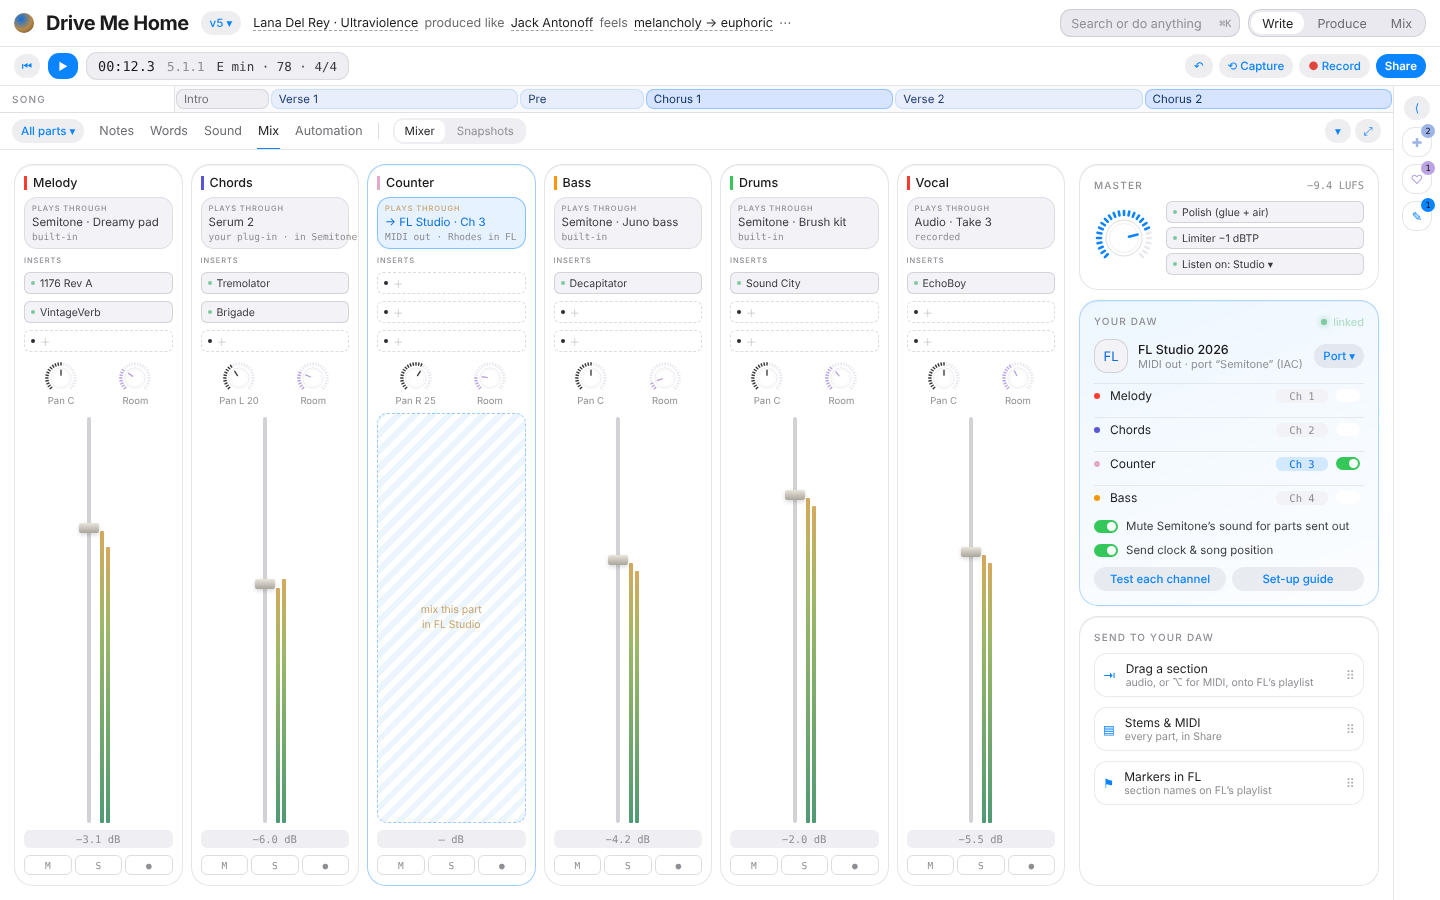
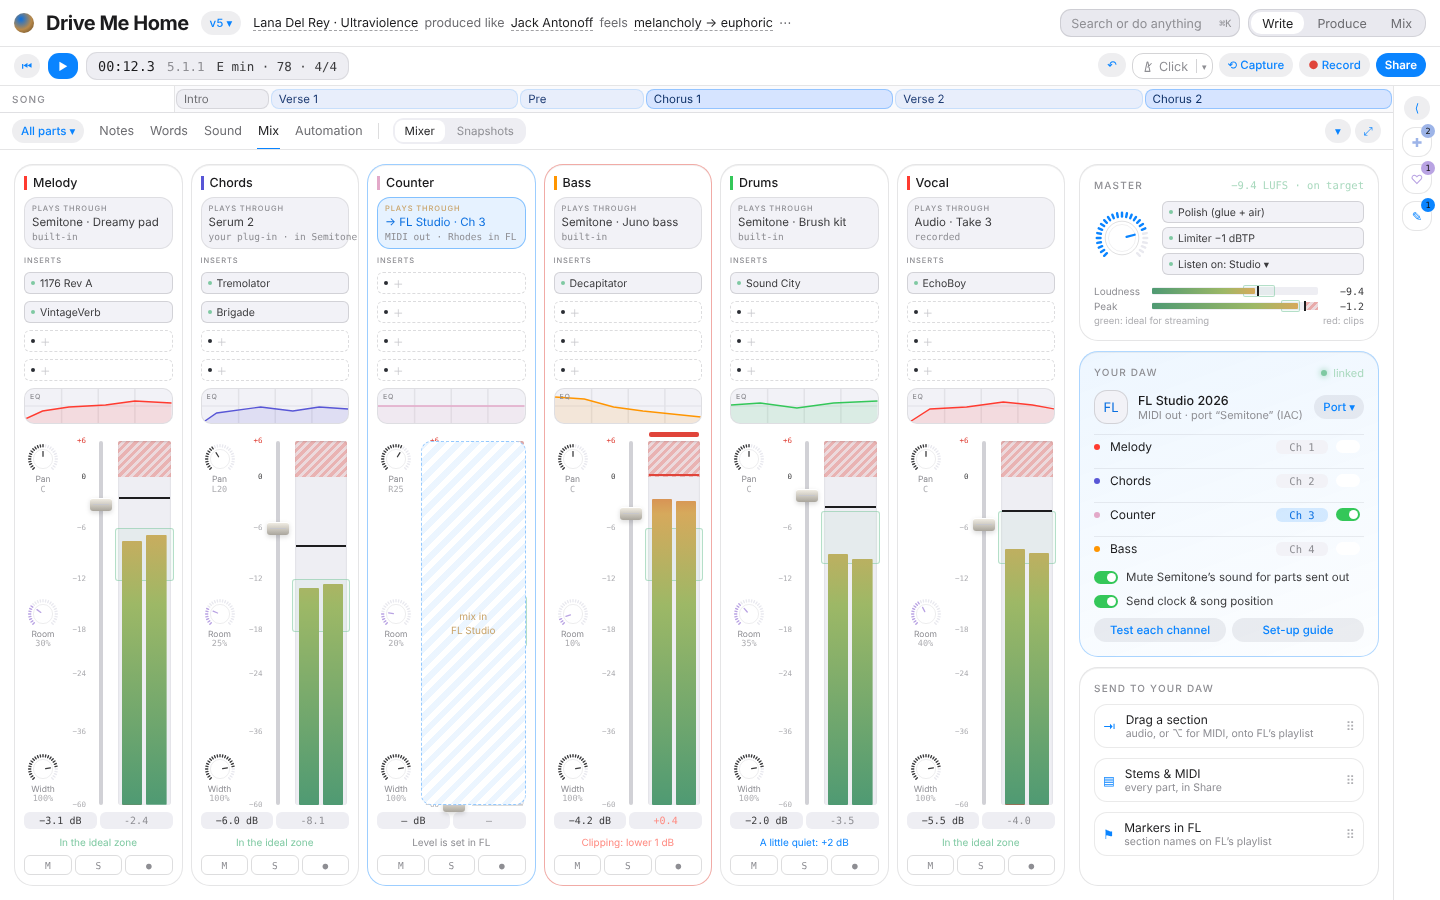
Design: mixer strips with ideal-level zone, red clip zone, clip light, peak hold, verdicts; knobs beside the fader, EQ curve, 4 inserts; master loudness/peak bars
Claude-Session: https://claude.ai/code/session_01Gwi5mznyCGAVwjhLcrp4R8

diff --git a/docs/design/panels/reference-Mixer.dc.html b/docs/design/panels/reference-Mixer.dc.html
@@ -56,22 +56,45 @@ button{cursor:pointer;white-space:nowrap}
         <div style="display: flex; align-items: center; gap: 6px"><span style="width: 3px; height: 14px; background: {{s.c}}"></span><span style="font-weight: 500; white-space: nowrap; overflow: hidden; text-overflow: ellipsis">{{s.n}}</span></div>
         <div style="border-radius: 8px; background: {{s.outBg}}; border: 1px solid {{s.outLine}}; padding: 6px 7px; display: flex; flex-direction: column; gap: 2px"><span class="sm" style="font-size: 7.5px; color: {{s.outK}}">Plays through</span><span style="font-size: 11.5px; color: {{s.outInk}}; white-space: nowrap; overflow: hidden; text-overflow: ellipsis">{{s.out}}</span><span class="mono" style="font-size: 9.5px; color: #6B7079; white-space: nowrap">{{s.outSub}}</span></div>
         <span class="sm" style="font-size: 7.5px">Inserts</span>
-        <sc-for list="{{s.fx}}" as="f" hint-placeholder-count="3"><span style="height: 20px; display: flex; align-items: center; gap: 5px; padding: 0 6px; border-radius: 4px; background: {{f.bg}}; border: 1px {{f.ls}} rgba(255,255,255,.08); color: {{f.ink}}; font-size: 10.5px; white-space: nowrap; overflow: hidden"><span style="width: 4px; height: 4px; border-radius: 50%; background: {{f.dot}}; flex-shrink: 0"></span>{{f.n}}</span></sc-for>
-        <div style="display: flex; justify-content: space-around; align-items: center; margin-top: 2px"><div style="display: flex; flex-direction: column; align-items: center"><svg viewBox="0 0 60 60" width="34" height="34" style="flex-shrink: 0" aria-hidden="true"><sc-for list="{{s.pan.seg}}" as="g" hint-placeholder-count="25"><path d="{{g.d}}" stroke="{{g.c}}" stroke-width="2.6" stroke-linecap="round"></path></sc-for><circle cx="30" cy="30" r="18" fill="#1A1C20" stroke="rgba(255,255,255,.08)"></circle><circle cx="30" cy="30" r="14.5" fill="none" stroke="rgba(255,255,255,.035)"></circle><path d="{{s.pan.ptr}}" stroke="{{s.pan.col}}" stroke-width="2.4" stroke-linecap="round"></path></svg><span style="font-size: 9.5px; color: #6B7079">Pan {{s.panV}}</span></div><div style="display: flex; flex-direction: column; align-items: center"><svg viewBox="0 0 60 60" width="34" height="34" style="flex-shrink: 0" aria-hidden="true"><sc-for list="{{s.send.seg}}" as="g" hint-placeholder-count="25"><path d="{{g.d}}" stroke="{{g.c}}" stroke-width="2.6" stroke-linecap="round"></path></sc-for><circle cx="30" cy="30" r="18" fill="#1A1C20" stroke="rgba(255,255,255,.08)"></circle><circle cx="30" cy="30" r="14.5" fill="none" stroke="rgba(255,255,255,.035)"></circle><path d="{{s.send.ptr}}" stroke="{{s.send.col}}" stroke-width="2.4" stroke-linecap="round"></path></svg><span style="font-size: 9.5px; color: #6B7079">Room</span></div></div>
-        <div style="flex: 1; display: flex; justify-content: center; gap: 9px; min-height: 80px; padding-top: 4px; position: relative">
-          <div style="width: 4px; border-radius: 2px; background: #060708; position: relative"><span style="position: absolute; left: -8px; top: {{s.cap}}%; width: 20px; height: 10px; border-radius: 2px; background: linear-gradient(#E9E5DC, #A9A59C); box-shadow: 0 2px 4px rgba(0,0,0,.6)"></span></div>
-          <div style="display: flex; gap: 2px; align-items: flex-end"><span style="width: 4px; height: {{s.l1}}%; background: linear-gradient(to top, #4F9A73, #9DB866 70%, #D6A95C); border-radius: 1px; opacity: {{s.mo}}"></span><span style="width: 4px; height: {{s.l2}}%; background: linear-gradient(to top, #4F9A73, #9DB866 70%, #D6A95C); border-radius: 1px; opacity: {{s.mo}}"></span></div>
-          <sc-if value="{{s.ext}}" hint-placeholder-val="{{false}}"><span style="position: absolute; inset: 0; display: flex; align-items: center; justify-content: center; text-align: center; font-size: 10.5px; color: #C9A46A; background: repeating-linear-gradient(135deg, rgba(217,179,122,.08) 0 6px, transparent 6px 12px), #0E0F12; border: 1px dashed rgba(217,179,122,.4); border-radius: 6px; line-height: 1.4">mix this part<br>in FL Studio</span></sc-if>
+        <sc-for list="{{s.fx}}" as="f" hint-placeholder-count="4"><span style="height: 20px; display: flex; align-items: center; gap: 5px; padding: 0 6px; border-radius: 4px; background: {{f.bg}}; border: 1px {{f.ls}} rgba(255,255,255,.08); color: {{f.ink}}; font-size: 10.5px; white-space: nowrap; overflow: hidden"><span style="width: 4px; height: 4px; border-radius: 50%; background: {{f.dot}}; flex-shrink: 0"></span>{{f.n}}</span></sc-for>
+        <div style="height: 34px; border-radius: 6px; background: #0A0B0D; border: 1px solid rgba(255,255,255,.05); position: relative; overflow: hidden" title="EQ · click to open"><svg viewBox="0 0 100 34" preserveAspectRatio="none" style="position: absolute; inset: 0; width: 100%; height: 100%" aria-hidden="true"><path d="M0 17 H100 M25 0 V34 M50 0 V34 M75 0 V34" stroke="rgba(255,255,255,.04)"></path><path d="{{s.eq}} L100 34 L0 34 Z" fill="{{s.c}}" opacity=".12"></path><path d="{{s.eq}}" fill="none" stroke="{{s.c}}" stroke-width="1.4" vector-effect="non-scaling-stroke"></path></svg><span class="sm" style="position: absolute; left: 5px; top: 3px; font-size: 7px">EQ</span></div>
+        <div style="flex: 1; display: grid; grid-template-columns: 38px 1fr; gap: 6px; min-height: 0; padding-top: 10px">
+          <div style="display: flex; flex-direction: column; justify-content: space-between; align-items: center; padding: 2px 0">
+            <sc-for list="{{s.knobs}}" as="k" hint-placeholder-count="3"><span style="display: flex; flex-direction: column; align-items: center"><svg viewBox="0 0 60 60" width="32" height="32" aria-hidden="true"><sc-for list="{{k.seg}}" as="g" hint-placeholder-count="25"><path d="{{g.d}}" stroke="{{g.c}}" stroke-width="2.6" stroke-linecap="round"></path></sc-for><circle cx="30" cy="30" r="18" fill="#1A1C20" stroke="rgba(255,255,255,.08)"></circle><path d="{{k.ptr}}" stroke="{{k.col}}" stroke-width="2.4" stroke-linecap="round"></path></svg><span style="font-size: 8.5px; color: #8A8F98; line-height: 1">{{k.n}}</span><span class="mono" style="font-size: 8.5px; color: #555A62">{{k.v}}</span></span></sc-for>
+          </div>
+          <div style="position: relative; display: grid; grid-template-columns: 20px 22px 1fr; gap: 2px; padding-right: 2px">
+            <div style="position: relative">
+              <sc-for list="{{scale}}" as="t" hint-placeholder-count="9"><span class="mono" style="position: absolute; right: 2px; top: calc({{t.y}}% - 5px); font-size: 7.5px; color: {{t.c}}">{{t.n}}</span></sc-for>
+            </div>
+            <div style="position: relative">
+              <span style="position: absolute; left: 9px; top: 0; bottom: 0; width: 4px; border-radius: 2px; background: #060708"></span>
+              <span style="position: absolute; left: 0; top: calc({{s.cap}}% - 6px); width: 22px; height: 12px; border-radius: 3px; background: linear-gradient(#EFEBE2, #A9A59C); box-shadow: 0 2px 5px rgba(0,0,0,.6); border-top: 1px solid #fff"><span style="position: absolute; left: 3px; right: 3px; top: 5px; height: 1px; background: #4C5058"></span></span>
+            </div>
+            <div style="position: relative; margin-left: 4px; border-radius: 3px; background: #08090A; box-shadow: inset 0 1px 2px rgba(0,0,0,.6)">
+              <span title="Red zone: above 0 dB the part clips" style="position: absolute; left: 0; right: 0; top: 0; height: {{redH}}%; background: repeating-linear-gradient(135deg, rgba(224,68,58,.35) 0 3px, rgba(224,68,58,.12) 3px 6px); border-radius: 2px 2px 0 0"></span>
+              <span title="Ideal level for this part" style="position: absolute; left: -3px; right: -3px; top: {{s.idT}}%; height: {{s.idH}}%; border: 1px solid rgba(127,201,162,.55); background: rgba(127,201,162,.08); border-radius: 3px"></span>
+              <span style="position: absolute; left: 4px; width: calc(50% - 6px); bottom: 0; height: {{s.l1}}%; border-radius: 1px; background: linear-gradient(to top, #4F9A73 0%, #9DB866 55%, #D6A95C 80%, #E0443A 100%); background-size: 100% {{s.gs1}}%; background-position: bottom; opacity: {{s.mo}}"></span>
+              <span style="position: absolute; right: 4px; width: calc(50% - 6px); bottom: 0; height: {{s.l2}}%; border-radius: 1px; background: linear-gradient(to top, #4F9A73 0%, #9DB866 55%, #D6A95C 80%, #E0443A 100%); background-size: 100% {{s.gs2}}%; background-position: bottom; opacity: {{s.mo}}"></span>
+              <span style="position: absolute; left: 1px; right: 1px; top: calc({{s.pk}}% - 1px); height: 2px; background: {{s.pkc}}; opacity: {{s.mo}}"></span>
+              <span title="Clip light" style="position: absolute; left: 1px; right: 1px; top: -9px; height: 5px; border-radius: 2px; background: {{s.clip}}"></span>
+            </div>
+            <sc-if value="{{s.ext}}" hint-placeholder-val="{{false}}"><span style="position: absolute; inset: 0; display: flex; align-items: center; justify-content: center; text-align: center; font-size: 10px; color: #C9A46A; background: repeating-linear-gradient(135deg, rgba(217,179,122,.08) 0 6px, transparent 6px 12px), #0E0F12; border: 1px dashed rgba(217,179,122,.4); border-radius: 6px; line-height: 1.4">mix in<br>FL Studio</span></sc-if>
+          </div>
         </div>
-        <span class="mono" style="text-align: center; font-size: 10.5px; color: #8A8F98; padding: 3px 0; border-radius: 4px; background: #08090A">{{s.db}}</span>
+        <div style="display: grid; grid-template-columns: 1fr 1fr; gap: 3px"><span class="mono" style="text-align: center; font-size: 10px; color: #C9C5BC; padding: 3px 0; border-radius: 4px; background: #08090A">{{s.db}}</span><span class="mono" title="Peak" style="text-align: center; font-size: 10px; color: {{s.pkInk}}; padding: 3px 0; border-radius: 4px; background: #08090A">{{s.peak}}</span></div>
+        <span style="text-align: center; font-size: 10px; color: {{s.verdictInk}}; white-space: nowrap; overflow: hidden; text-overflow: ellipsis">{{s.verdict}}</span>
         <div style="display: flex; gap: 3px"><sc-for list="{{s.ms}}" as="m" hint-placeholder-count="3"><span class="mono" style="flex: 1; height: 18px; border-radius: 4px; border: 1px solid rgba(255,255,255,.08); color: #8A8F98; font-size: 9.5px; display: flex; align-items: center; justify-content: center">{{m}}</span></sc-for></div>
       </div>
     </sc-for>
   </div>
   <div style="width: 300px; flex-shrink: 0; display: flex; flex-direction: column; gap: 10px">
     <div style="padding: 14px; border-radius: 12px; background: linear-gradient(#121316, #0F1013); border: 1px solid rgba(255,255,255,.06); box-shadow: inset 0 1px 0 rgba(255,255,255,.03); display: flex; flex-direction: column; gap: 10px; min-width: 0">
-      <div style="display: flex; justify-content: space-between; align-items: baseline"><span class="sm">Master</span><span class="mono" style="font-size: 10.5px; color: #8A8F98">−9.4 LUFS</span></div>
-      <div style="display: flex; gap: 12px; align-items: center"><svg viewBox="0 0 60 60" width="60" height="60" style="flex-shrink: 0" aria-hidden="true"><sc-for list="{{master.seg}}" as="g" hint-placeholder-count="25"><path d="{{g.d}}" stroke="{{g.c}}" stroke-width="2.6" stroke-linecap="round"></path></sc-for><circle cx="30" cy="30" r="18" fill="#1A1C20" stroke="rgba(255,255,255,.08)"></circle><circle cx="30" cy="30" r="14.5" fill="none" stroke="rgba(255,255,255,.035)"></circle><path d="{{master.ptr}}" stroke="{{master.col}}" stroke-width="2.4" stroke-linecap="round"></path></svg><div style="flex: 1; display: flex; flex-direction: column; gap: 4px"><sc-for list="{{mfx}}" as="f" hint-placeholder-count="3"><span style="height: 20px; display: flex; align-items: center; gap: 5px; padding: 0 6px; border-radius: 4px; background: #17191D; border: 1px solid rgba(255,255,255,.08); font-size: 10.5px; color: #C9C5BC"><span style="width: 4px; height: 4px; border-radius: 50%; background: #7FC9A2"></span>{{f}}</span></sc-for></div></div>
+      <div style="display: flex; justify-content: space-between; align-items: baseline"><span class="sm">Master</span><span class="mono" style="font-size: 10.5px; color: #A9D9BE">−9.4 LUFS · on target</span></div>
+      <div style="display: flex; gap: 12px; align-items: center"><svg viewBox="0 0 60 60" width="56" height="56" style="flex-shrink: 0" aria-hidden="true"><sc-for list="{{master.seg}}" as="g" hint-placeholder-count="25"><path d="{{g.d}}" stroke="{{g.c}}" stroke-width="2.6" stroke-linecap="round"></path></sc-for><circle cx="30" cy="30" r="18" fill="#1A1C20" stroke="rgba(255,255,255,.08)"></circle><circle cx="30" cy="30" r="14.5" fill="none" stroke="rgba(255,255,255,.035)"></circle><path d="{{master.ptr}}" stroke="{{master.col}}" stroke-width="2.4" stroke-linecap="round"></path></svg><div style="flex: 1; display: flex; flex-direction: column; gap: 4px"><sc-for list="{{mfx}}" as="f" hint-placeholder-count="3"><span style="height: 20px; display: flex; align-items: center; gap: 5px; padding: 0 6px; border-radius: 4px; background: #17191D; border: 1px solid rgba(255,255,255,.08); font-size: 10.5px; color: #C9C5BC"><span style="width: 4px; height: 4px; border-radius: 50%; background: #7FC9A2"></span>{{f}}</span></sc-for></div></div>
+      <div style="display: flex; flex-direction: column; gap: 3px">
+        <sc-for list="{{mbars}}" as="b" hint-placeholder-count="2"><div style="display: grid; grid-template-columns: 52px 1fr 40px; gap: 6px; align-items: center"><span style="font-size: 10px; color: #8A8F98">{{b.n}}</span><span style="position: relative; height: 8px; border-radius: 2px; background: #08090A"><span style="position: absolute; left: {{b.zl}}%; width: {{b.zw}}%; top: -2px; bottom: -2px; border: 1px solid rgba(127,201,162,.55); background: rgba(127,201,162,.08); border-radius: 2px"></span><span style="position: absolute; right: 0; width: {{b.red}}%; top: 0; bottom: 0; background: repeating-linear-gradient(135deg, rgba(224,68,58,.4) 0 3px, rgba(224,68,58,.12) 3px 6px)"></span><span style="position: absolute; left: 0; width: {{b.v}}%; top: 1px; bottom: 1px; border-radius: 1px; background: linear-gradient(90deg, #4F9A73, #9DB866 70%, #D6A95C)"></span><span style="position: absolute; left: calc({{b.pk}}% - 1px); top: -1px; bottom: -1px; width: 2px; background: #EDEBE6"></span></span><span class="mono" style="font-size: 10px; color: #C9C5BC; text-align: right">{{b.t}}</span></div></sc-for>
+        <span style="display: flex; justify-content: space-between; font-size: 9.5px; color: #555A62"><span>green: ideal for streaming</span><span>red: clips</span></span>
+      </div>
     </div>
     <div style="padding: 14px; border-radius: 12px; background: linear-gradient(#121316, #0F1013); border: 1px solid rgba(255,255,255,.06); box-shadow: inset 0 1px 0 rgba(255,255,255,.03); display: flex; flex-direction: column; gap: 10px; min-width: 0; border-color: rgba(217,179,122,.3); background: linear-gradient(160deg, rgba(217,179,122,.07), rgba(217,179,122,.01))">
       <div style="display: flex; justify-content: space-between; align-items: baseline"><span class="sm">Your DAW</span><span style="display: flex; align-items: center; gap: 6px; color: #A9D9BE; font-size: 11px"><span style="width: 6px; height: 6px; border-radius: 50%; background: #7FC9A2; box-shadow: 0 0 6px #7FC9A2"></span>linked</span></div>
@@ -109,14 +132,34 @@ class Component extends DCLogic {
     function KN(cx, cy, a, r) { a = a * Math.PI / 180; return (cx + r * Math.cos(a)).toFixed(2) + ' ' + (cy + r * Math.sin(a)).toFixed(2); }
     function knob(v, col, size) { var seg = []; for (var k = 0; k <= 24; k++) { var t = k / 24, ang = 135 + t * 270; seg.push({ d: 'M' + KN(30, 30, ang, 27) + ' L' + KN(30, 30, ang, 23), c: t <= v + 1e-6 ? col : '#0C0D10' }); } var pa = 135 + v * 270; return { seg: seg, ptr: 'M' + KN(30, 30, pa, 5) + ' L' + KN(30, 30, pa, 14), size: size || 54, col: col }; }
 function segOf(list, on) { return list.map(function (n) { var o = n === on; return { n: n, bg: o ? '#24262B' : 'transparent', ink: o ? '#EDEBE6' : '#8A8F98' }; }); }
-    function fxL(list) { var o = list.map(function (f) { return { n: f, ink: '#C9C5BC', bg: '#17191D', dot: '#7FC9A2', ls: 'solid' }; }); while (o.length < 3) o.push({ n: '＋', ink: '#4C5058', bg: 'transparent', dot: '#2A2D33', ls: 'dashed' }); return o; }
-    var strips = [['Melody', '#D9776F', 'Semitone · Dreamy pad', 'built-in', ['1176 Rev A', 'VintageVerb'], .5, 'C', .3, 72, 68, '−3.1 dB', 0], ['Chords', '#7C95D9', 'Serum 2', 'your plug-in · in Semitone', ['Tremolator', 'Brigade'], .38, 'L 20', .25, 58, 60, '−6.0 dB', 0], ['Counter', '#E3A9C9', '→ FL Studio · Ch 3', 'MIDI out · Rhodes in FL', [], .62, 'R 25', .2, 0, 0, '— dB', 1], ['Bass', '#D5A35F', 'Semitone · Juno bass', 'built-in', ['Decapitator'], .5, 'C', .1, 64, 62, '−4.2 dB', 0], ['Drums', '#74B88F', 'Semitone · Brush kit', 'built-in', ['Sound City'], .5, 'C', .35, 80, 78, '−2.0 dB', 0], ['Vocal', '#D9776F', 'Audio · Take 3', 'recorded', ['EchoBoy'], .5, 'C', .4, 66, 64, '−5.5 dB', 0]].map(function (s) { var ext = !!s[11]; var o = { n: s[0], c: s[1], out: s[2], outSub: s[3], fx: fxL(s[4]), pan: knob(s[5], '#C9C5BC', 30), send: knob(s[7], '#B9A3E3', 30), panV: s[6], l1: s[8], l2: s[9], db: s[10], cap: 100 - Math.max(20, s[8]) - 2, ext: ext, mo: ext ? .15 : 1, ms: ['M', 'S', '●'], line: ext ? 'rgba(217,179,122,.4)' : 'rgba(255,255,255,.06)', outBg: ext ? 'rgba(217,179,122,.1)' : '#0A0B0D', outLine: ext ? 'rgba(217,179,122,.45)' : 'rgba(255,255,255,.05)', outInk: ext ? '#F1D6A6' : '#C9C5BC', outK: ext ? '#C9A46A' : '#6B7079' }; return o; });
+    function fxL(list) { var o = list.map(function (f) { return { n: f, ink: '#C9C5BC', bg: '#17191D', dot: '#7FC9A2', ls: 'solid' }; }); while (o.length < 4) o.push({ n: '＋', ink: '#4C5058', bg: 'transparent', dot: '#2A2D33', ls: 'dashed' }); return o; }
+    function Y(db) { var v = db > 6 ? 6 : db < -60 ? -60 : db; var marks = [[6, 0], [0, 10], [-6, 24], [-12, 38], [-18, 52], [-24, 64], [-36, 80], [-60, 100]]; for (var i = 0; i < marks.length - 1; i++) { var a = marks[i], b = marks[i + 1]; if (v <= a[0] && v >= b[0]) return a[1] + (a[0] - v) / (a[0] - b[0]) * (b[1] - a[1]); } return 100; }
+    var scale = [['+6', 6], ['0', 0], ['−6', -6], ['−12', -12], ['−18', -18], ['−24', -24], ['−36', -36], ['−60', -60]].map(function (t) { return { n: t[0], y: Y(t[1]).toFixed(1), c: t[1] > 0 ? '#E0443A' : t[1] === 0 ? '#C9C5BC' : '#555A62' }; });
+    var redH = Y(0).toFixed(1);
+    function eqc(pts) { return 'M' + pts.map(function (p) { return p[0] + ' ' + p[1]; }).join(' L'); }
+    var strips = [
+      ['Melody', '#D9776F', 'Semitone · Dreamy pad', 'built-in', ['1176 Rev A', 'VintageVerb'], [.5, 'C'], .3, -3.1, -7.5, -6.8, -2.4, [-12, -6], 'In the ideal zone', eqc([[0, 30], [12, 22], [30, 18], [55, 16], [75, 12], [100, 14]]), 0],
+      ['Chords', '#7C95D9', 'Serum 2', 'your plug-in · in Semitone', ['Tremolator', 'Brigade'], [.38, 'L20'], .25, -6.0, -13, -12.5, -8.1, [-18, -12], 'In the ideal zone', eqc([[0, 34], [10, 24], [40, 18], [62, 22], [80, 18], [100, 20]]), 0],
+      ['Counter', '#E3A9C9', '→ FL Studio · Ch 3', 'MIDI out · Rhodes in FL', [], [.62, 'R25'], .2, null, -60, -60, -60, [-20, -14], 'Level is set in FL', eqc([[0, 17], [100, 17]]), 1],
+      ['Bass', '#D5A35F', 'Semitone · Juno bass', 'built-in', ['Decapitator'], [.5, 'C'], .1, -4.2, -2.5, -2.8, 0.4, [-12, -6], 'Clipping: lower 1 dB', eqc([[0, 8], [20, 10], [40, 18], [60, 22], [100, 28]]), 0],
+      ['Drums', '#74B88F', 'Semitone · Brush kit', 'built-in', ['Sound City'], [.5, 'C'], .35, -2.0, -9, -9.6, -3.5, [-10, -4], 'A little quiet: +2 dB', eqc([[0, 16], [20, 14], [45, 19], [70, 14], [100, 12]]), 0],
+      ['Vocal', '#D9776F', 'Audio · Take 3', 'recorded', ['EchoBoy'], [.5, 'C'], .4, -5.5, -8.5, -8.9, -4.0, [-10, -4], 'In the ideal zone', eqc([[0, 34], [15, 20], [40, 18], [65, 13], [85, 16], [100, 20]]), 0]
+    ].map(function (s) { var ext = !!s[14], hot = s[10] > 0, low = /quiet/.test(s[12]);
+      var idT = Y(s[11][1]), idB = Y(s[11][0]);
+      return { n: s[0], c: s[1], out: s[2], outSub: s[3], fx: fxL(s[4]),
+        knobs: [{ n: 'Pan', v: s[5][1] }, { n: 'Room', v: Math.round(s[6] * 100) + '%' }, { n: 'Width', v: '100%' }].map(function (k, i) { var o = knob(i === 0 ? s[5][0] : i === 1 ? s[6] : .8, i === 1 ? '#B9A3E3' : '#C9C5BC', 32); o.n = k.n; o.v = k.v; return o; }),
+        l1: (100 - Y(s[8])).toFixed(1), l2: (100 - Y(s[9])).toFixed(1), gs1: (100 / Math.max(.01, (100 - Y(s[8])) / 100)).toFixed(0), gs2: (100 / Math.max(.01, (100 - Y(s[9])) / 100)).toFixed(0),
+        pk: Y(s[10]).toFixed(1), pkc: hot ? '#E0443A' : '#EDEBE6', clip: hot ? '#E0443A' : '#24262B', peak: ext ? '—' : (s[10] > 0 ? '+' : '') + s[10].toFixed(1), pkInk: hot ? '#FF8A80' : '#8A8F98',
+        idT: idT.toFixed(1), idH: (idB - idT).toFixed(1), cap: Y(s[7] === null ? -60 : s[7]).toFixed(1), db: ext ? '— dB' : (s[7] > 0 ? '+' : '') + s[7].toFixed(1).replace('-', '−') + ' dB',
+        verdict: s[12], verdictInk: hot ? '#FF8A80' : low ? '#D9B37A' : ext ? '#8A8F98' : '#7FC9A2', eq: s[13],
+        ext: ext, mo: ext ? .15 : 1, ms: ['M', 'S', '●'], line: hot ? 'rgba(224,68,58,.45)' : ext ? 'rgba(217,179,122,.4)' : 'rgba(255,255,255,.06)', outBg: ext ? 'rgba(217,179,122,.1)' : '#0A0B0D', outLine: ext ? 'rgba(217,179,122,.45)' : 'rgba(255,255,255,.05)', outInk: ext ? '#F1D6A6' : '#C9C5BC', outK: ext ? '#C9A46A' : '#6B7079' }; });
     var master = knob(.78, '#D9B37A', 54);
     var mfx = ['Polish (glue + air)', 'Limiter −1 dBTP', 'Listen on: Studio ▾'];
+    var mbars = [['Loudness', 62, 55, 18, 0, 64, '−9.4'], ['Peak', 88, 78, 10, 7, 92, '−1.2']].map(function (b) { return { n: b[0], v: b[1], zl: b[2], zw: b[3], red: b[4], pk: b[5], t: b[6] }; });
     var route = [['Melody', '#D9776F', 'Ch 1', 0], ['Chords', '#7C95D9', 'Ch 2', 0], ['Counter', '#E3A9C9', 'Ch 3', 1], ['Bass', '#D5A35F', 'Ch 4', 0]].map(function (r) { var on = !!r[3]; return { n: r[0], c: r[1], ch: r[2], bg: on ? '#B8925A' : '#24262B', k: on ? 13 : 2, chBg: on ? 'rgba(217,179,122,.15)' : '#0A0B0D', chInk: on ? '#F1D6A6' : '#6B7079' }; });
     var dOpts = [['Mute Semitone’s sound for parts sent out', 1], ['Send clock & song position', 1]].map(function (o) { var on = !!o[1]; return { n: o[0], bg: on ? '#B8925A' : '#24262B', k: on ? 13 : 2 }; });
     var sendTo = [['⇥', 'Drag a section', 'audio, or ⌥ for MIDI, onto FL’s playlist'], ['▤', 'Stems & MIDI', 'every part, in Share'], ['⚑', 'Markers in FL', 'section names on FL’s playlist']].map(function (x) { return { i: x[0], n: x[1], d: x[2] }; });
-    return { clickBtn: clickBtn, secs: secs, tabs: tabsOf('Mix'), subs: subsOf(['Mixer', 'Snapshots'], 'Mixer'), railI: railI, strips: strips, master: master, mfx: mfx, route: route, dOpts: dOpts, sendTo: sendTo };
+    return { clickBtn: clickBtn, secs: secs, tabs: tabsOf('Mix'), subs: subsOf(['Mixer', 'Snapshots'], 'Mixer'), railI: railI, strips: strips, scale: scale, redH: redH, mbars: mbars, master: master, mfx: mfx, route: route, dOpts: dOpts, sendTo: sendTo };
   }
 }
 </script>

diff --git a/docs/design/panels/README.md b/docs/design/panels/README.md
@@ -85,8 +85,28 @@ The desktop app records natively (TakeRecorder). Inside a DAW, recording stays w
   or **send to your DAW** on a channel.
 - A strip sent to the DAW is outlined in brass. Its fader area is hatched with "mix this part in FL Studio" (Semitone isn't making that sound), and
   its inserts are empty.
-- Strips have inserts (empty slots dashed), Pan and Room knobs (the same LED-ring knob), a fader with metal cap, a stereo meter, dB readout and
-  M / S / ● (record arm).
+- **Strip layout (no wasted width):**
+  - Top to bottom: plays through, four insert slots (empty ones dashed), then a small **EQ curve** in the part colour (click to open the EQ).
+  - At the bottom, a two-column **fader area**. The left column stacks the **Pan, Room and Width** knobs (same LED-ring knob, label and value
+    under each), so they no longer sit in a row above the fader. The right column has a **dB scale** (+6, 0, −6, −12, −18, −24, −36, −60, with 0 in
+    the text colour and +6 in red), the fader with a metal cap, and a full-width stereo meter.
+- **The meter:**
+  - Green → yellow → red gradient that reaches red only near 0 dB.
+  - A **peak-hold line** that falls slowly.
+  - A **clip light** above it that latches red until clicked.
+  - A hatched **red zone** above 0 dB ("above this the part clips").
+  - A green-outlined **ideal zone**: the target average level for this part's role, from `part-roles.json` `levelVsLead` relative to the lead, set
+    so the mix sums near the master target. For example, lead −12…−6, chords −18…−12, drums −10…−4. It moves with the song's genre profile.
+- **Readouts:**
+  - Two readouts under the meter: fader dB and peak dB (the peak turns red above 0).
+  - One plain **verdict line** under them, in a colour that matches: "In the ideal zone" (green), "A little quiet: +2 dB" (brass), "Clipping: lower
+    1 dB" (red, and the strip gets a red hairline), or "Level is set in FL".
+  - Clicking the verdict applies the fix as one undo step.
+- M / S / ● (record arm) stay at the bottom.
+- **Master:** the knob plus inserts, then two horizontal bars:
+  - **Loudness** (short-term LUFS) with the green ideal zone for the "Listen on" target (streaming −14 to −9 by default; club, film and podcast change it).
+  - **Peak** (true peak) with the red zone above −1 dBTP.
+  - The header says "−9.4 LUFS · on target" or what to change. A key line reads "green: ideal for streaming · red: clips".
 - **Master card:** LED-ring master knob, LUFS, Polish, Limiter and Listen on.
 - **Your DAW card** (brass):
   - The DAW and port ("FL Studio 2026 · MIDI out · port 'Semitone' (IAC)", Port ▾) with a linked status.
